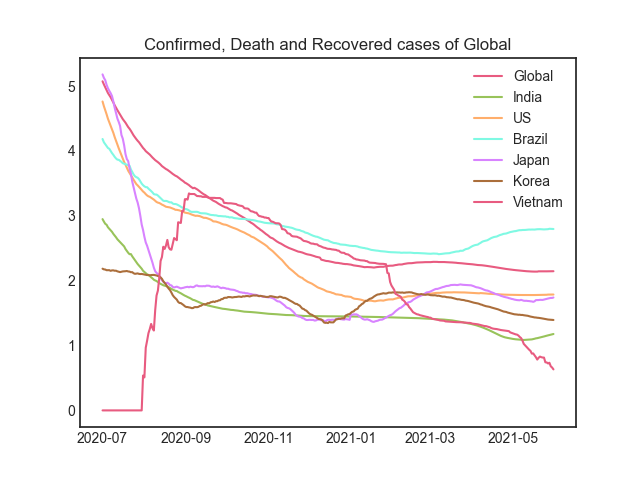
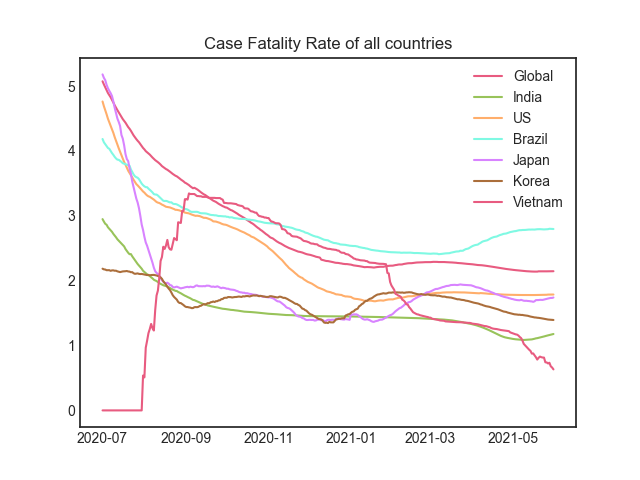
change title

Changed region(s): [[0.2188, 0.0625, 0.8125, 0.125]]

diff --git a/Visuals/Basic visuals/Code/CFR All countries.py b/Visuals/Basic visuals/Code/CFR All countries.py
@@ -14,19 +14,19 @@ def parser(x):
 	return datetime.strptime('202'+x, '%Y-%m-%d')
 
 
-gl0bal = read_csv('https://raw.githubusercontent.com/ll-cooool-j/DS-Assignment/main/Visuals/Basic%20visuals/Datasets%20of%20each%20country%20and%20Global/Global%20(SPSS).csv',
+gl0bal = read_csv('https://raw.githubusercontent.com/ll-cooool-j/DS-Assignment/main/Datasets/Datasets%20of%20each%20country%20and%20Global%20(main%20dataset%20-%208%20attributes)/Global%20(SPSS).csv',
                   header=0, parse_dates=[0], index_col=0, squeeze=True, date_parser=parser)
-india = read_csv('https://raw.githubusercontent.com/ll-cooool-j/DS-Assignment/main/Visuals/Basic%20visuals/Datasets%20of%20each%20country%20and%20Global/Highest%20Number%20of%20Infections%20Country%20~%20India%20(SPSS).csv',
+india = read_csv('https://raw.githubusercontent.com/ll-cooool-j/DS-Assignment/main/Datasets/Datasets%20of%20each%20country%20and%20Global%20(main%20dataset%20-%208%20attributes)/Highest%20Number%20of%20Infections%20Country%20~%20India%20(SPSS).csv',
                   header=0, parse_dates=[0], index_col=0, squeeze=True, date_parser=parser)
-us = read_csv('https://raw.githubusercontent.com/ll-cooool-j/DS-Assignment/main/Visuals/Basic%20visuals/Datasets%20of%20each%20country%20and%20Global/Highest%20Number%20of%20Infections%20Country%20~%20United%20States%20(SPSS).csv',
+us = read_csv('https://raw.githubusercontent.com/ll-cooool-j/DS-Assignment/main/Datasets/Datasets%20of%20each%20country%20and%20Global%20(main%20dataset%20-%208%20attributes)/Highest%20Number%20of%20Infections%20Country%20~%20United%20States%20(SPSS).csv',
                   header=0, parse_dates=[0], index_col=0, squeeze=True, date_parser=parser)
-brazil = read_csv('https://raw.githubusercontent.com/ll-cooool-j/DS-Assignment/main/Visuals/Basic%20visuals/Datasets%20of%20each%20country%20and%20Global/Highest%20Number%20of%20Infections%20Country%20~%20Brazil%20(SPSS).csv',
+brazil = read_csv('https://raw.githubusercontent.com/ll-cooool-j/DS-Assignment/main/Datasets/Datasets%20of%20each%20country%20and%20Global%20(main%20dataset%20-%208%20attributes)/Highest%20Number%20of%20Infections%20Country%20~%20Brazil%20(SPSS).csv',
                   header=0, parse_dates=[0], index_col=0, squeeze=True, date_parser=parser)
-japan = read_csv('https://raw.githubusercontent.com/ll-cooool-j/DS-Assignment/main/Visuals/Basic%20visuals/Datasets%20of%20each%20country%20and%20Global/Asian%20Country%20~%20Japan%20(SPSS).csv',
+japan = read_csv('https://raw.githubusercontent.com/ll-cooool-j/DS-Assignment/main/Datasets/Datasets%20of%20each%20country%20and%20Global%20(main%20dataset%20-%208%20attributes)/Asian%20Country%20~%20Japan%20(SPSS).csv',
                   header=0, parse_dates=[0], index_col=0, squeeze=True, date_parser=parser)
-korea = read_csv('https://raw.githubusercontent.com/ll-cooool-j/DS-Assignment/main/Visuals/Basic%20visuals/Datasets%20of%20each%20country%20and%20Global/Asian%20Country%20~%20South%20Korea%20(SPSS).csv',
+korea = read_csv('https://raw.githubusercontent.com/ll-cooool-j/DS-Assignment/main/Datasets/Datasets%20of%20each%20country%20and%20Global%20(main%20dataset%20-%208%20attributes)/Asian%20Country%20~%20South%20Korea%20(SPSS).csv',
                   header=0, parse_dates=[0], index_col=0, squeeze=True, date_parser=parser)
-vn = read_csv('https://raw.githubusercontent.com/ll-cooool-j/DS-Assignment/main/Visuals/Basic%20visuals/Datasets%20of%20each%20country%20and%20Global/Asian%20Country%20~%20Vietnam%20(SPSS).csv',
+vn = read_csv('https://raw.githubusercontent.com/ll-cooool-j/DS-Assignment/main/Datasets/Datasets%20of%20each%20country%20and%20Global%20(main%20dataset%20-%208%20attributes)/Asian%20Country%20~%20Vietnam%20(SPSS).csv',
                   header=0, parse_dates=[0], index_col=0, squeeze=True, date_parser=parser)
 
 fig, ax = plt.subplots()
@@ -38,5 +38,5 @@ ax.plot(japan['CFR'], label = "Japan")
 ax.plot(korea['CFR'], label = "Korea")
 ax.plot(vn['CFR'], label = "Vietnam")
 ax.legend()
-ax.set_title('Confirmed, Death and Recovered cases of Global')
+ax.set_title('Case Fatality Rate of all countries')
 plt.show()

diff --git a/Visuals/Basic visuals/Code/Recovery Rate All countries.py b/Visuals/Basic visuals/Code/Recovery Rate All countries.py
@@ -38,5 +38,5 @@ ax.plot(japan['Recovery_rate'], label="Japan")
 ax.plot(korea['Recovery_rate'], label="Korea")
 ax.plot(vn['Recovery_rate'], label="Vietnam")
 ax.legend(loc='center left', bbox_to_anchor=(1.0, 0.7))
-ax.set_title('Confirmed, Death and Recovered cases of Global')
+ax.set_title('Recovery rate of all countries')
 plt.show()

diff --git a/Visuals/Basic visuals/Code/Mortality Rate All countries.py b/Visuals/Basic visuals/Code/Mortality Rate All countries.py
@@ -38,5 +38,5 @@ ax.plot(japan['Mortality_rate'], label="Japan")
 ax.plot(korea['Mortality_rate'], label="Korea")
 ax.plot(vn['Mortality_rate'], label="Vietnam")
 ax.legend()
-ax.set_title('Confirmed, Death and Recovered cases of Global')
+ax.set_title('Mortality rate of all countries')
 plt.show()
